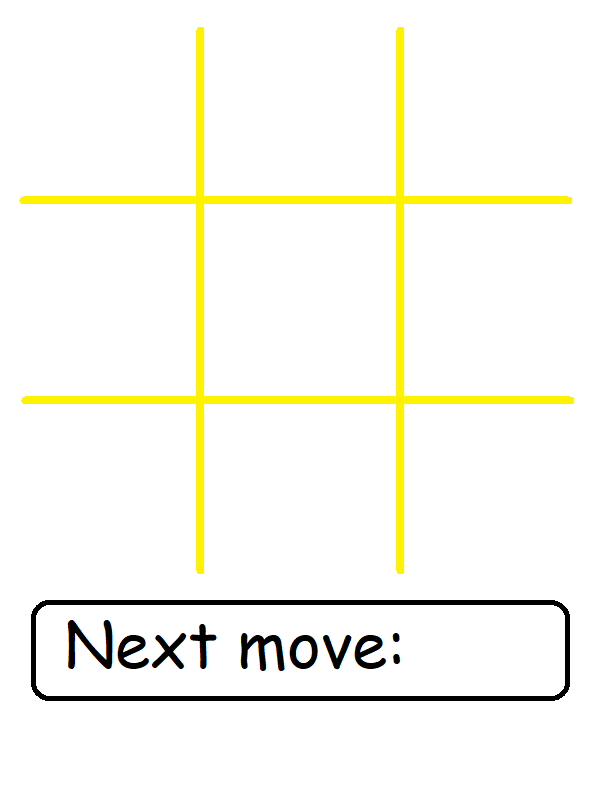
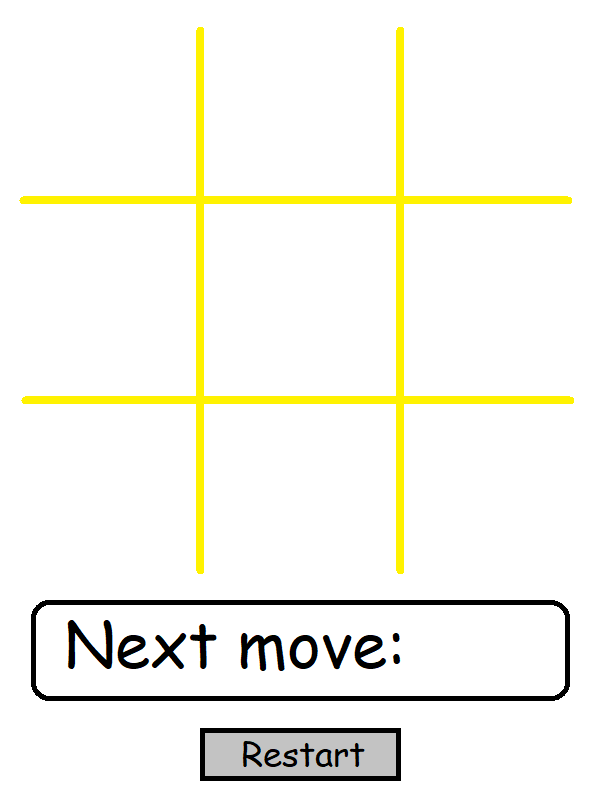
Restart game button

Changed region(s): [[0.33, 0.9051, 0.69, 0.9988]]

diff --git a/Engine.cpp b/Engine.cpp
@@ -3,7 +3,6 @@
 //Initialize class variables
 void Game::initialize_Variable()
 {
-	this->window_ptr = nullptr;
 	this->game_state_end = false;
 	this->game_state_draw = false;
 	this->moves = 0;
@@ -81,12 +80,17 @@ void Game::initialize_UI()
 		this->next_move.setTexture(&texture_o);
 	else
 		this->next_move.setTexture(&texture_x);
+
+	this->restart_button.setPosition(200.f, 728.f);
+	this->restart_button.setSize(sf::Vector2f(200.f, 53.f));
+	this->restart_button.setFillColor(sf::Color(200,144,144,0));
 }
 
 ////////////////////	Constructor/Destructor	////////////////////
 
 Game::Game()
 {
+	this->window_ptr = nullptr;
 	this->initialize_Variable();
 	this->initialize_Window();
 	this->initialize_Music();
@@ -98,6 +102,7 @@ Game::Game()
 Game::~Game()
 {
 	delete this->window_ptr;
+	std::cout << "DELETION";
 }
 
 ////////////////////	Functions	////////////////////
@@ -123,6 +128,14 @@ void Game::update_Player_Move()
 	else
 		this->next_move.setTexture(&texture_x);
 }
+
+void Game::restart_game()
+{
+	this->initialize_Variable();
+	this->initialize_Grid();
+	this->initialize_UI();
+}
+
 
 //Check if win
 void Game::win_cond_check()	
@@ -180,7 +193,7 @@ void Game::place_Shape()
 	{
 		for (int j = 0; j < 3; j++)		
 		{
-			if (this->grid[i][j].getGlobalBounds().contains(this->mouse_pos_view) && !this->game_state_end)	//Check if grid contains click
+			if (this->grid[i][j].getGlobalBounds().contains(this->mouse_pos_view) && !this->game_state_end)	//Click on Grid piece
 			{
 				this->grid[i][j].setFillColor(sf::Color(sf::Color::White));		//Set grid as visable
 
@@ -198,10 +211,12 @@ void Game::place_Shape()
 					this->moves++;
 					player_turn = 1;
 				}
-				if (this->moves == 9) game_state_draw = true;
+				if (this->moves == 9) game_state_draw = game_state_end = true;
 			}
 		}
 	}
+	if (this->restart_button.getGlobalBounds().contains(this->mouse_pos_view))	//Click on restart button
+		this->restart_game();
 }
 
 //Events handling 
@@ -254,6 +269,6 @@ void Game::render()
 		}
 	}
 	this->window_ptr->draw(next_move);
-
+	this->window_ptr->draw(restart_button);
 	this->window_ptr->display();
 }

diff --git a/Engine.h b/Engine.h
@@ -17,7 +17,7 @@ private:
 	sf::Event event_1;
 
 	//Music
-	sf::Music music;
+	sf::Music music;			// to do: sound of placing shapes insted background miusic
 
 	//Background
 	sf::Texture texture_background;
@@ -37,6 +37,7 @@ private:
 
 	//UI
 	sf::RectangleShape next_move;
+	sf::RectangleShape restart_button;
 
 	//Mouse positions
 	sf::Vector2i mouse_pos_window;
@@ -54,6 +55,7 @@ public:
 	~Game();
 	const bool get_Window_Is_Open() const;	//Check if window is open
 
+	void restart_game();
 	void win_cond_check();
 	void place_Shape();
 	void events_Pool();
